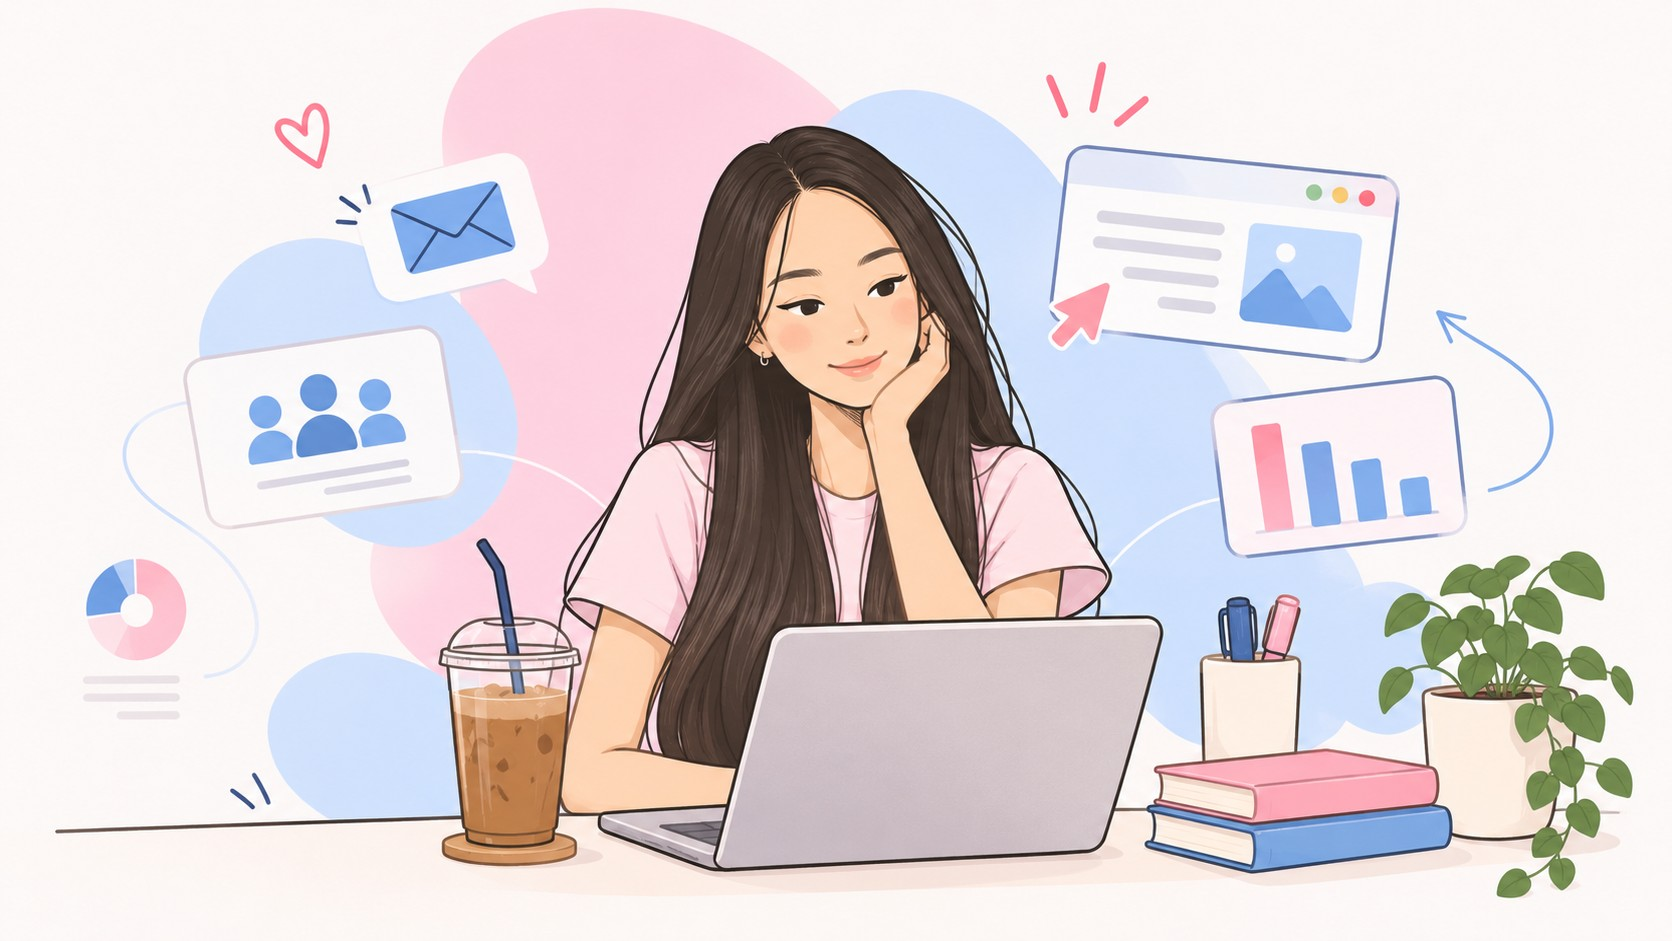
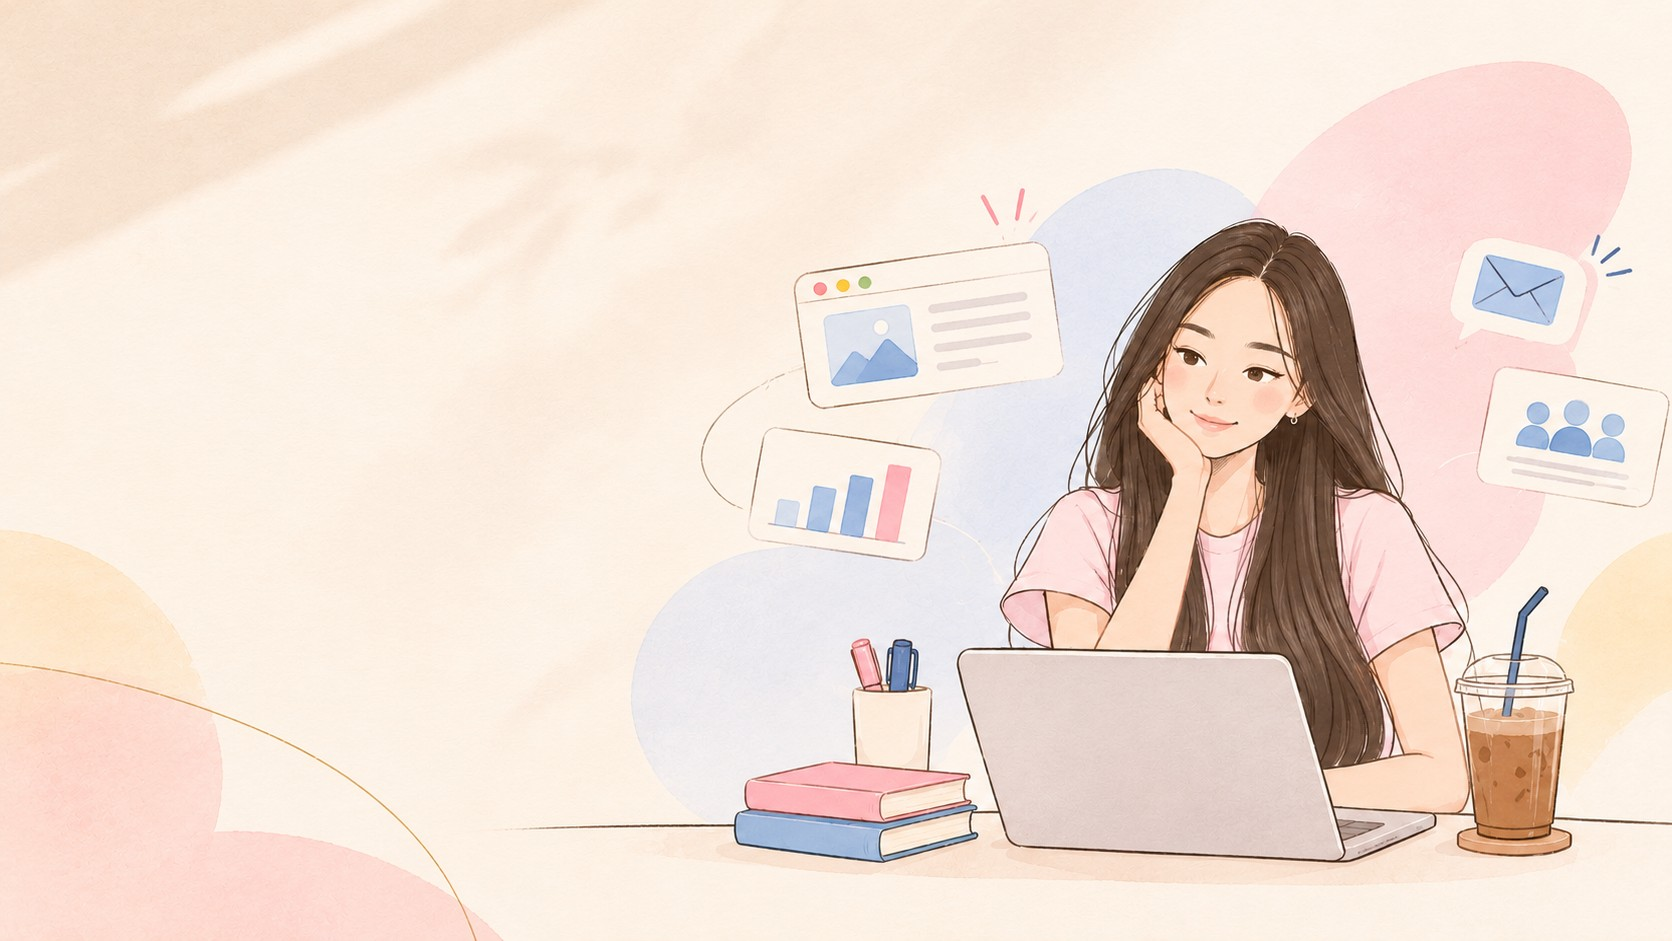
New hero image (full-bleed, text on empty left area)
Claude-Session: https://claude.ai/code/session_01L6jddHEZiMt34huMNJU8A3

diff --git a/index.html b/index.html
@@ -56,13 +56,11 @@ nav.scrolled { background: rgba(250,248,243,.82); backdrop-filter: blur(14px); -
 section { padding: 6rem 0; }
 
 /* ── HERO ── */
-#hero { position: relative; height: 100vh; height: 100svh; min-height: 640px; padding: 0; overflow: hidden; background: #FDF9F8; }
-.hero-media { position: absolute; right: 0; bottom: 0; height: 84%; aspect-ratio: 1.18 / 1; will-change: transform; transform-origin: 50% 100%;
-  -webkit-mask-image: linear-gradient(90deg, transparent 0, #000 16%), linear-gradient(180deg, transparent 0, #000 12%); -webkit-mask-composite: source-in;
-  mask-image: linear-gradient(90deg, transparent 0, #000 16%), linear-gradient(180deg, transparent 0, #000 12%); mask-composite: intersect; }
+#hero { position: relative; height: 100vh; height: 100svh; min-height: 640px; padding: 0; overflow: hidden; background: #FBF2E8; }
+.hero-media { position: absolute; left: 0; right: 0; top: 0; bottom: 0; will-change: transform; transform-origin: 50% 100%; }
 .hero-media img, .hero-media canvas { position: absolute; inset: 0; width: 100%; height: 100%; display: block; }
 .hero-media img { object-fit: cover; object-position: 100% 50%; }
-.hero-copy { position: absolute; left: var(--gutter); bottom: clamp(3rem, 9vh, 5.5rem); width: min(380px, 30vw); color: var(--text); will-change: transform, opacity; }
+.hero-copy { position: absolute; left: var(--gutter); bottom: clamp(3rem, 9vh, 5.5rem); width: min(350px, 26vw); color: var(--text); will-change: transform, opacity; }
 .hero-copy > * { opacity: 0; transform: translateY(18px); animation: rise .9s cubic-bezier(.2,.7,.2,1) forwards; }
 .hero-copy > *:nth-child(1) { animation-delay: .15s; } .hero-copy > *:nth-child(2) { animation-delay: .3s; } .hero-copy > *:nth-child(3) { animation-delay: .45s; } .hero-copy > *:nth-child(4) { animation-delay: .6s; }
 @keyframes rise { to { opacity: 1; transform: none; } }
@@ -218,7 +216,7 @@ section { padding: 6rem 0; }
 @media (max-width: 1200px) { :root { --gutter: 64px; } }
 @media (max-width: 900px) {
   #hero { height: auto; min-height: 0; padding-top: 4.5rem; }
-  .hero-media { position: relative; right: auto; bottom: auto; width: 100%; height: auto; aspect-ratio: 1.18 / 1; -webkit-mask-image: linear-gradient(180deg, transparent 0, #000 12%); mask-image: linear-gradient(180deg, transparent 0, #000 12%); }
+  .hero-media { position: relative; left: auto; right: auto; top: auto; bottom: auto; width: 100%; height: auto; aspect-ratio: 1.1 / 1; }
   .hero-copy { position: relative; left: auto; bottom: auto; width: auto; max-width: 520px; padding: 0 var(--gutter) 3rem; margin-top: -1rem; }
   .hero-scroll-cue { display: none; }
   .skills-layout { grid-template-columns: 1fr; gap: 2.5rem; }
